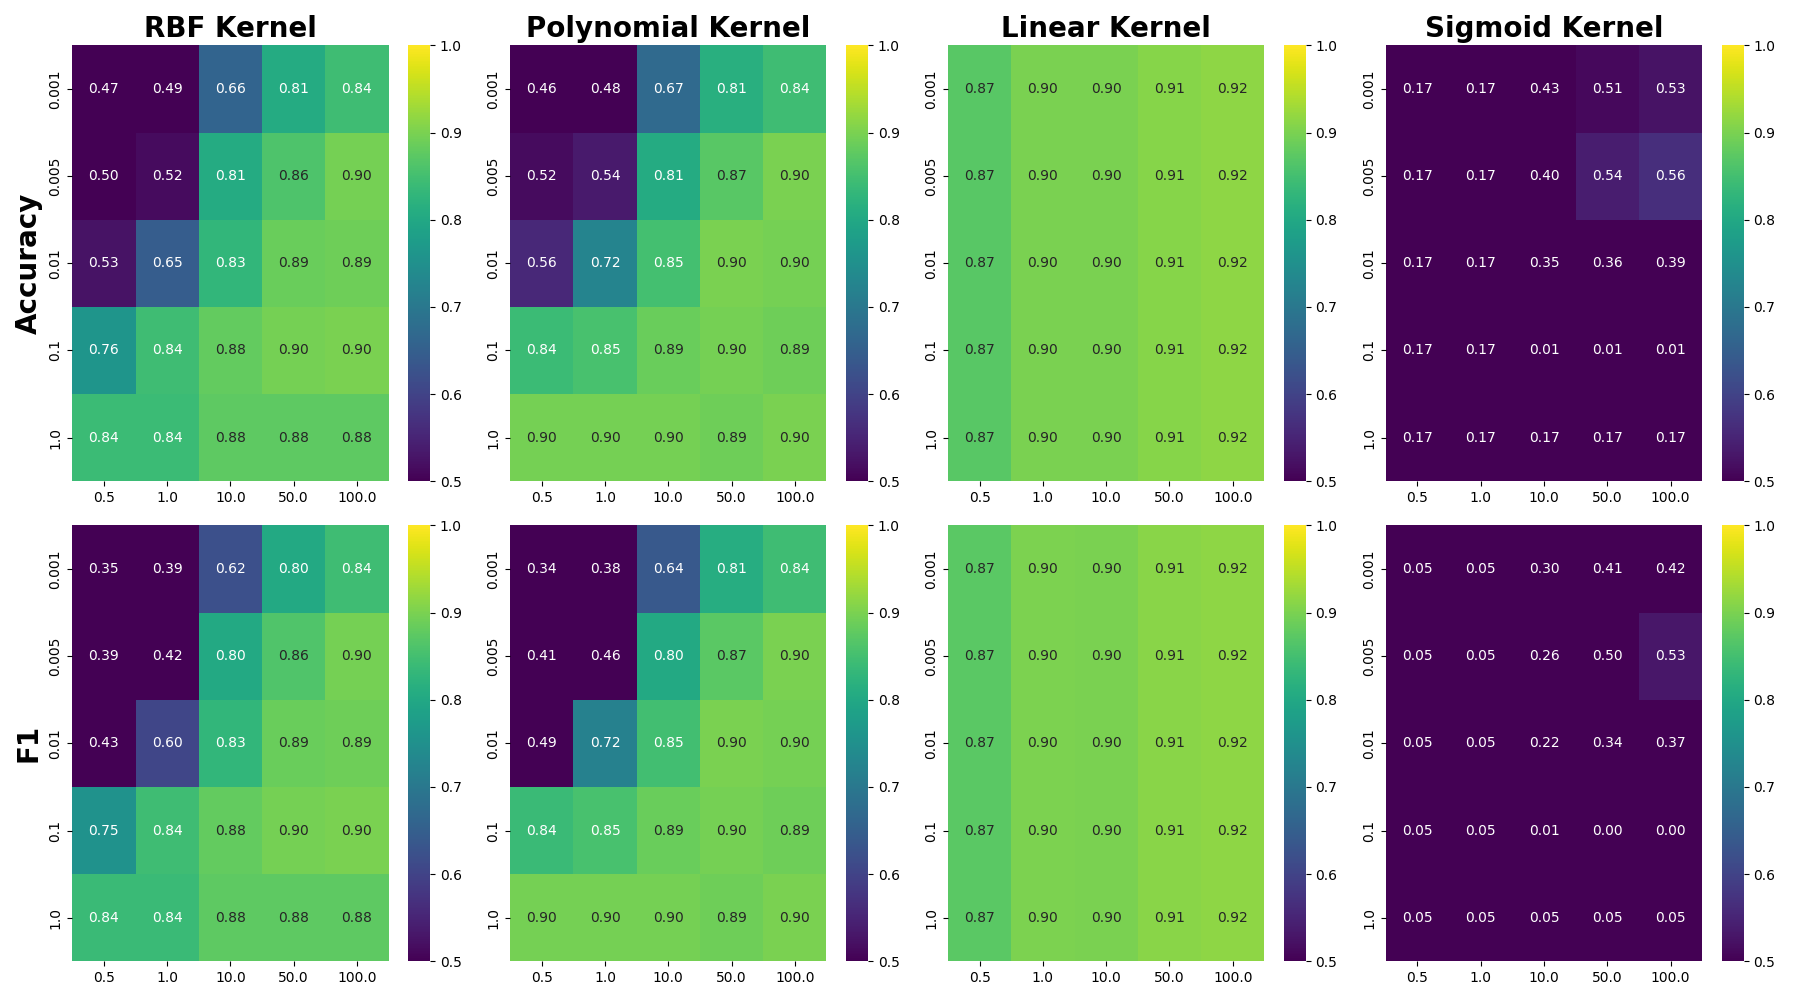
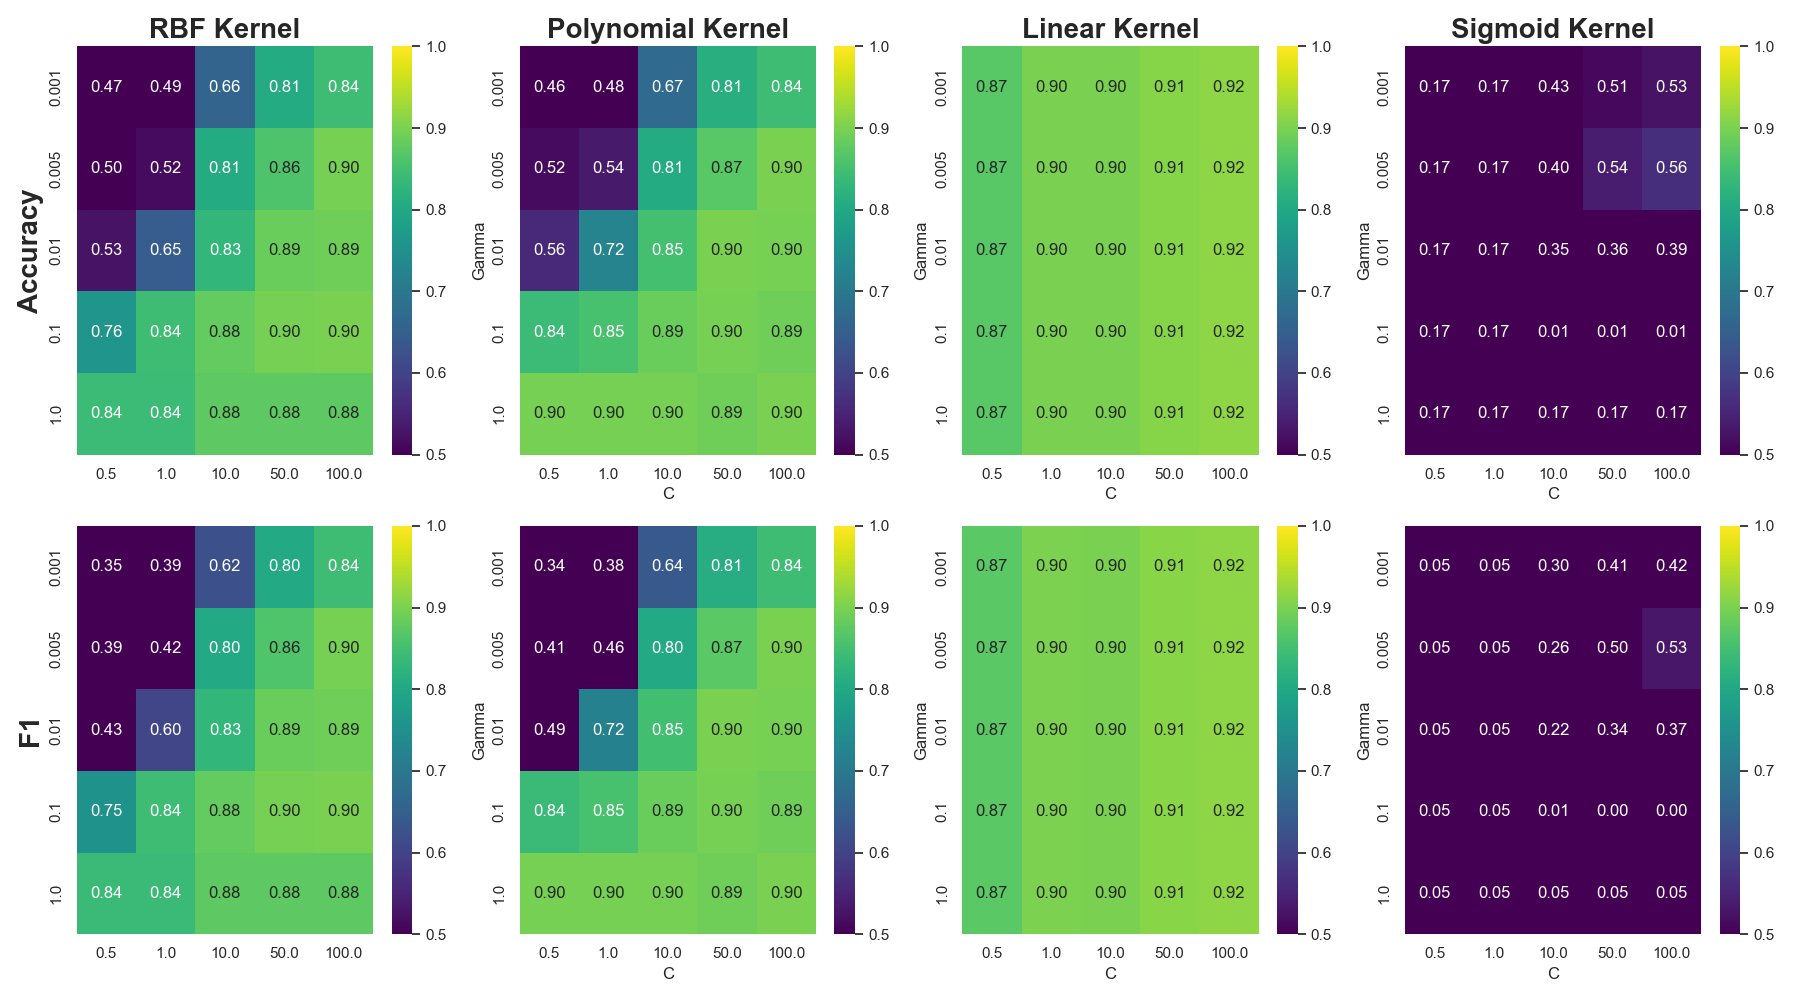
small fixes

diff --git a/SVM.py b/SVM.py
@@ -141,6 +141,14 @@ def initial_test(X_train, X_test, y_train, y_test):
     axs[0, 0].set_ylabel('Accuracy', fontsize=20, fontweight='bold')
     axs[1, 0].set_ylabel('F1', fontsize=20, fontweight='bold')
 
+    # Set labels on the others
+    for i in range(1, 4):
+        axs[0, i].set_xlabel('C', fontsize=12)
+        axs[0, i].set_ylabel('Gamma', fontsize=12)
+        axs[1, i].set_xlabel('C', fontsize=12)
+        axs[1, i].set_ylabel('Gamma', fontsize=12)
+
+
     plt.tight_layout()
     plt.show()
 
@@ -155,19 +163,19 @@ def SVM(X_train, X_test, y_train, y_test, standardized=True):
         initial_test(X_train, X_test, y_train, y_test)
         initial_test(X_train_std, X_test_std, y_train, y_test)
         parameters = hyper_parameter_tuning(X_train_std, X_test_std, y_train, y_test)[1]
-        write_hyperparameters_to_file(parameters, 'svm_params')
+        write_hyperparameters_to_file(parameters, 'svm_params.txt')
 
     else:
         parameters = hyper_parameter_tuning(X_train, X_test, y_train, y_test)[1]
-        write_hyperparameters_to_file(parameters, 'svm_params')
+        write_hyperparameters_to_file(parameters, 'svm_params.txt')
 
 
 def read_svm_hyperparameters_from_file(model, X_train, X_test, y_train, y_test):
     hyperparameters = {}
     if model == 'svm':
-        if not exists('svm_params'):
+        if not exists('svm_params.txt'):
             SVM(X_train, X_test, y_train, y_test, True)
-        file_path = 'svm_params'
+        file_path = 'svm_params.txt'
 
 
     with open(file_path, "r") as file:

diff --git a/DF.py b/DF.py
@@ -73,16 +73,16 @@ def hyper_parameter_tuning(X_train, X_test, y_train, y_test):
 
 def RF(X_train, X_test, y_train, y_test):
     parameters = hyper_parameter_tuning(X_train, X_test, y_train, y_test)
-    write_hyperparameters_to_file(parameters, 'RF_params')
+    write_hyperparameters_to_file(parameters, 'RF_params.txt')
 
 
 def read_rf_hyperparameters_from_file(model, X_train, X_test, y_train, y_test):
     hyperparameters = {}
 
     if model == 'rf':
-        if not exists('RF_params'):
+        if not exists('RF_params.txt'):
             RF(X_train, X_test, y_train, y_test)
-        file_path = 'Rf_params'
+        file_path = 'Rf_params.txt'
 
 
     with open(file_path, "r") as file:
